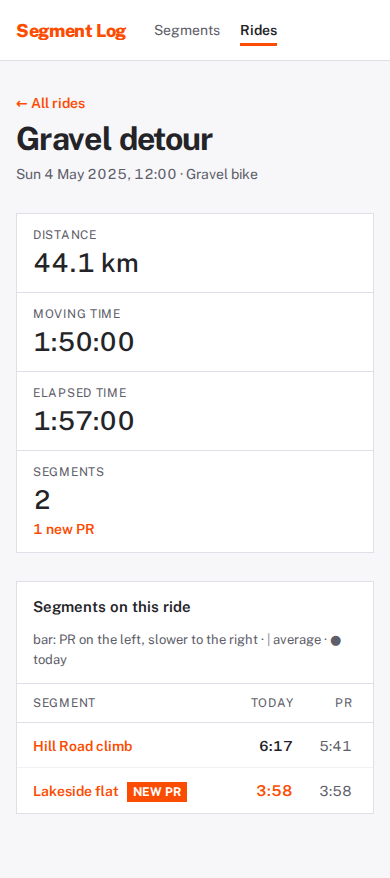
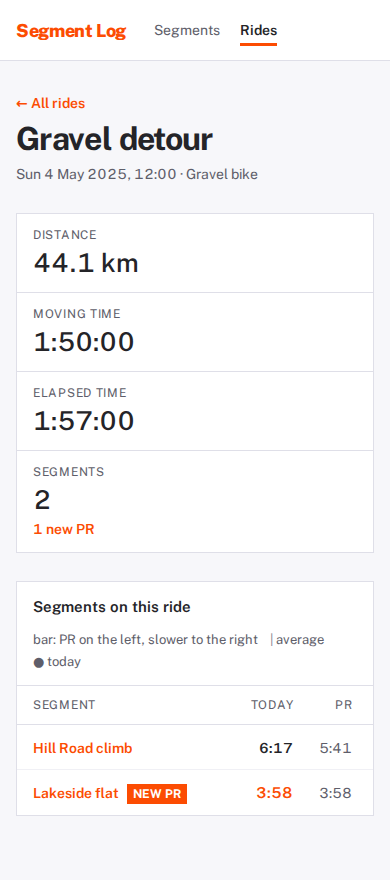
T-010: Fix stuck Loading on trailing-slash/encoded routes, ellipsis, legend, weekday typo
Claude-Session: https://claude.ai/code/session_01FuUnsNEdjvNmCKy6S3ycms

diff --git a/web/src/pages/ride.ts b/web/src/pages/ride.ts
@@ -10,7 +10,7 @@ import {
   type RideData,
   type RideEffort,
 } from "../lib/ride-data";
-import { segmentHref } from "../lib/router";
+import { isCurrentRoute, segmentHref } from "../lib/router";
 import { formatGap } from "../lib/segment-data";
 import { renderNotFound } from "./not-found";
 
@@ -86,14 +86,14 @@ function effortRow(e: RideEffort): HTMLElement {
 }
 
 function segmentsPanel(efforts: RideEffort[]): HTMLElement {
+  const item = (...content: (Node | string)[]): HTMLElement =>
+    h("span", { class: "legend__item" }, ...content);
   const legend = h(
     "span",
-    { class: "chart-hint" },
-    "bar: PR on the left, slower to the right · ",
-    h("span", { class: "legend-tick", "aria-hidden": "true" }, "|"),
-    " average · ",
-    h("span", { "aria-hidden": "true" }, "●"),
-    " today",
+    { class: "chart-hint legend" },
+    item("bar: PR on the left, slower to the right"),
+    item(h("span", { class: "legend-tick", "aria-hidden": "true" }, "|"), " average"),
+    item(h("span", { "aria-hidden": "true" }, "●"), " today"),
   );
   const body =
     efforts.length === 0
@@ -111,7 +111,12 @@ function segmentsPanel(efforts: RideEffort[]): HTMLElement {
           ],
           efforts.map(effortRow),
         );
-  const node = panel("ride-seg-h", "Segments on this ride", [body], legend);
+  const node = panel(
+    "ride-seg-h",
+    "Segments on this ride",
+    [body],
+    efforts.length > 0 ? legend : undefined,
+  );
   node.classList.add("panel--ride-segments");
   return node;
 }
@@ -136,9 +141,10 @@ export function renderRide(root: HTMLElement, id: string): void {
   fetchJson<RideData>(`rides/${id}.json`).then(
     (data) => {
       // A newer navigation may have replaced the page meanwhile.
-      if (window.location.hash.endsWith(`/ride/${id}`)) renderRideData(root, data);
+      if (isCurrentRoute(window.location.hash, { page: "ride", id })) renderRideData(root, data);
     },
     (err: unknown) => {
+      if (!isCurrentRoute(window.location.hash, { page: "ride", id })) return;
       if (err instanceof NotFoundError) renderNotFound(root);
       else
         root.replaceChildren(

diff --git a/web/src/lib/router.test.ts b/web/src/lib/router.test.ts
@@ -1,5 +1,5 @@
 import { describe, expect, it } from "vitest";
-import { parseRoute, rideHref, segmentHref } from "./router";
+import { isCurrentRoute, parseRoute, rideHref, segmentHref } from "./router";
 
 describe("parseRoute", () => {
   it("maps empty and root hashes to the index", () => {
@@ -32,5 +32,28 @@ describe("parseRoute", () => {
       slug: "lakeside-flat",
     });
     expect(parseRoute(rideHref("42"))).toEqual({ page: "ride", id: "42" });
+  });
+});
+
+describe("isCurrentRoute", () => {
+  it("accepts the same ride with trailing slash or percent-encoding", () => {
+    const ride = { page: "ride", id: "3000000106" } as const;
+    expect(isCurrentRoute("#/ride/3000000106", ride)).toBe(true);
+    expect(isCurrentRoute("#/ride/3000000106/", ride)).toBe(true);
+    expect(isCurrentRoute("#/ride/%33000000106", ride)).toBe(true);
+  });
+
+  it("accepts the same segment with a trailing slash", () => {
+    expect(isCurrentRoute("#/segment/hill-road/", { page: "segment", slug: "hill-road" })).toBe(
+      true,
+    );
+  });
+
+  it("rejects another page or another id", () => {
+    const ride = { page: "ride", id: "1" } as const;
+    expect(isCurrentRoute("#/ride/2", ride)).toBe(false);
+    expect(isCurrentRoute("#/segment/s", ride)).toBe(false);
+    expect(isCurrentRoute("#/", ride)).toBe(false);
+    expect(isCurrentRoute("#/ride/1", { page: "segment", slug: "s" })).toBe(false);
   });
 });

diff --git a/web/src/pages/segment.ts b/web/src/pages/segment.ts
@@ -4,7 +4,7 @@ import { fetchJson, NotFoundError } from "../lib/data";
 import { h } from "../lib/dom";
 import { formatDate, formatDuration, formatKm } from "../lib/format";
 import type { IndexData } from "../lib/index-data";
-import { rideHref } from "../lib/router";
+import { isCurrentRoute, rideHref } from "../lib/router";
 import {
   chartLabel,
   chartModel,
@@ -251,9 +251,11 @@ export function renderSegment(root: HTMLElement, slug: string): void {
   Promise.all([fetchJson<SegmentData>(`segments/${slug}.json`), generatedYear()]).then(
     ([data, year]) => {
       // A newer navigation may have replaced the page meanwhile.
-      if (window.location.hash.endsWith(`/segment/${slug}`)) renderSegmentData(root, data, year);
+      if (isCurrentRoute(window.location.hash, { page: "segment", slug }))
+        renderSegmentData(root, data, year);
     },
     (err: unknown) => {
+      if (!isCurrentRoute(window.location.hash, { page: "segment", slug })) return;
       if (err instanceof NotFoundError) renderNotFound(root);
       else
         status(

diff --git a/web/src/lib/router.ts b/web/src/lib/router.ts
@@ -37,3 +37,15 @@ export function segmentHref(slug: string): string {
 export function rideHref(id: string): string {
   return `#/ride/${encodeURIComponent(id)}`;
 }
+
+/** True while `hash` still routes to the page being rendered (trailing slash / percent-encoding safe). */
+export function isCurrentRoute(
+  hash: string,
+  expected: { page: "segment"; slug: string } | { page: "ride"; id: string },
+): boolean {
+  const route = parseRoute(hash);
+  if (route.page !== expected.page) return false;
+  return route.page === "segment"
+    ? expected.page === "segment" && route.slug === expected.slug
+    : route.page === "ride" && expected.page === "ride" && route.id === expected.id;
+}

diff --git a/web/src/lib/format.ts b/web/src/lib/format.ts
@@ -39,7 +39,7 @@ const WEEKDAY_TIME = new Intl.DateTimeFormat("en-GB", {
   hourCycle: "h23",
 });
 
-/** UTC ISO 8601 timestamp as "Sat 18 Oct 2026, 17:05" in Europe/Bratislava, whatever the viewer's zone. */
+/** UTC ISO 8601 timestamp as "Sun 18 Oct 2026, 17:05" in Europe/Bratislava, whatever the viewer's zone. */
 export function formatDateTime(when: string): string {
   const parts = Object.fromEntries(
     WEEKDAY_TIME.formatToParts(new Date(when)).map((p) => [p.type, p.value]),

diff --git a/web/src/styles/ride.css b/web/src/styles/ride.css
@@ -98,6 +98,7 @@
   max-width: 220px;
   overflow: hidden;
   text-overflow: ellipsis;
+  white-space: nowrap;
   vertical-align: bottom;
 }
 
@@ -105,4 +106,14 @@
   .seg-cell a {
     max-width: 120px;
   }
+}
+
+.legend {
+  display: flex;
+  flex-wrap: wrap;
+  gap: 2px 12px;
+}
+
+.legend__item {
+  white-space: nowrap;
 }

diff --git a/web/src/styles/segment.css b/web/src/styles/segment.css
@@ -155,6 +155,7 @@
   max-width: 260px;
   overflow: hidden;
   text-overflow: ellipsis;
+  white-space: nowrap;
 }
 
 @media (max-width: 479px) {

diff --git a/docs/DESIGN.md b/docs/DESIGN.md
@@ -52,7 +52,7 @@ say "PR" in text.
 5. Empty state: "No efforts on this segment yet." in place of chart and tables.
 
 ### Ride page (`#/ride/<id>`), see `docs/design/ride-page.dc.html`
-1. Back link "← All rides", h1 ride name, meta "Sat 18 Oct 2026, 17:05 · <gear>". All dates and times are shown in
+1. Back link "← All rides", h1 ride name, meta "Sun 18 Oct 2026, 17:05 · <gear>". All dates and times are shown in
    Europe/Bratislava time (D-007), never the viewer's zone.
 2. Summary strip: Distance · Moving time · Elapsed time · Segments (with "N new PR" in orange when > 0).
 3. Panel **Segments on this ride**, one row per effort: Segment (link, "NEW PR" chip if PR at the time) · Today ·
